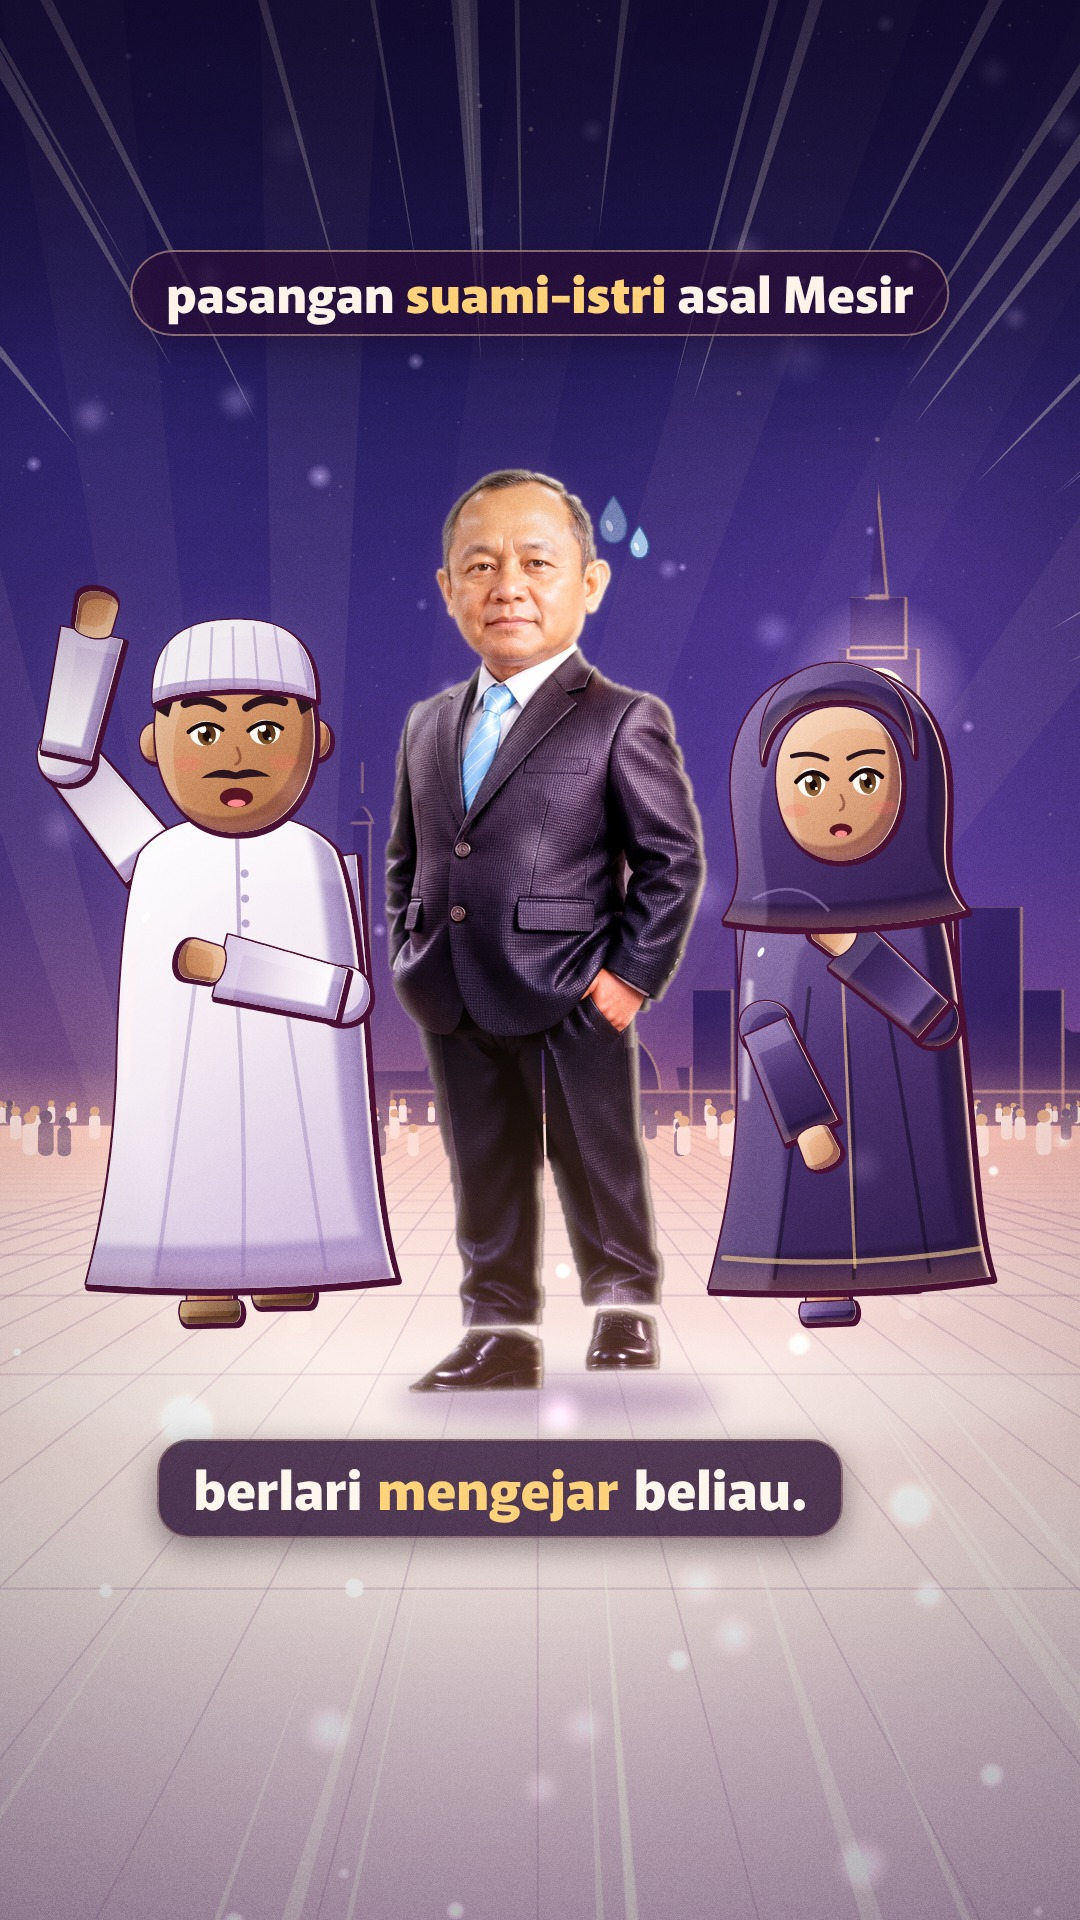
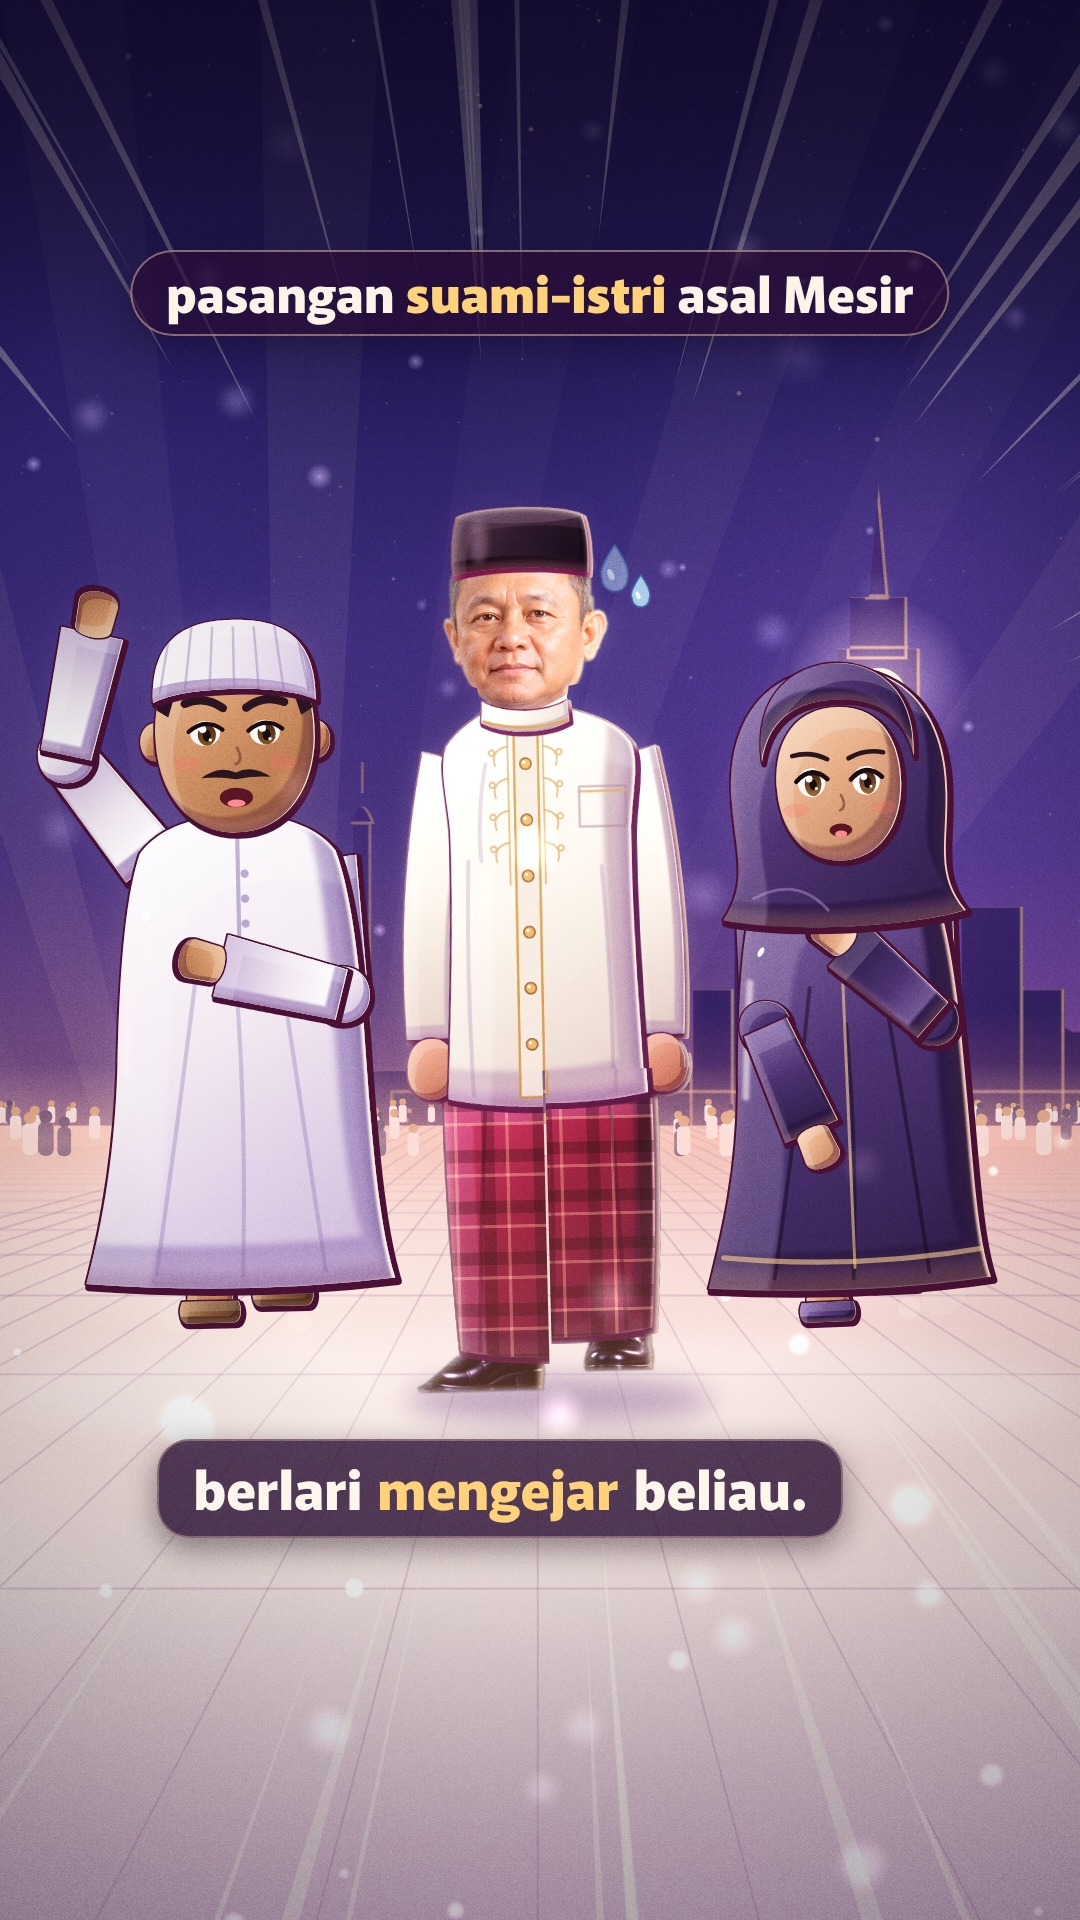
Ganti busana Pak Sarmuji: baju koko, peci, sarung (wajah tetap dari foto)
Claude-Session: https://claude.ai/code/session_01CdVjsPHWsCiLWjCVWZPL9t

Changed region(s): [[0.3361, 0.2188, 0.6722, 0.7188], [0.3667, 0.7188, 0.3972, 0.75]]

diff --git a/menperin-jamu/index.html b/menperin-jamu/index.html
@@ -72,7 +72,7 @@ html,body{margin:0;height:100%;background:#000;overflow:hidden}
 <div id="stage">
 <canvas id="cv" width="1080" height="1920"></canvas>
 <div id="ttl"><div id="tW">KISAH MENPERIN</div><div id="tLine"></div><div id="tC">dikejar <b>orang Mesir</b>!</div></div>
-<div class="lab" id="lb0" style="--c:#ffd27a">Menperin M. Sarmuji</div>
+<div class="lab" id="lb0" style="--c:#ffd27a">M. Sarmuji</div>
 <div id="c2">pasangan <b>suami-istri</b> asal Mesir</div>
 <svg id="mfLab" viewBox="0 0 1080 1920"></svg>
 <div id="mfSub"></div>
@@ -275,7 +275,7 @@ function debu(t,C,depan){X.save();X.globalCompositeOperation='lighter';if(depan)
 const IMG={};
 const muatGambar=(k,src)=>new Promise(r=>{const i=new Image();i.onload=()=>{IMG[k]=i;r();};i.onerror=r;i.src=src;});
 let FIG=null,FW=0,FH=0;
-const FIGH=900,FIGB=1400;                    /* tinggi figur di dunia + garis telapak kaki */
+const PADP=70,FIGH=958,FIGB=1400;   /* PADP: ruang di atas kepala untuk peci */                    /* tinggi figur di dunia + garis telapak kaki */
 function siapkanFigur(){const im=IMG.fig;FW=im.width;FH=im.height;const c=cx2(FW,FH),s=cx2(FW,FH),k=FW*.05;
   c.filter='saturate(1.12) contrast(1.06)';c.drawImage(im,0,0);c.filter='none';
   const tint=(fn,comp,al)=>{s.setTransform(1,0,0,1,0,0);s.globalCompositeOperation='source-over';s.globalAlpha=1;s.filter='none';s.clearRect(0,0,FW,FH);s.drawImage(im,0,0);
@@ -293,10 +293,56 @@ function siapkanFigur(){const im=IMG.fig;FW=im.width;FH=im.height;const c=cx2(FW
    s.globalCompositeOperation='destination-out';s.filter='blur(6px)';s.drawImage(im,k*.35,k*.1);s.filter='none';
    c.save();c.globalCompositeOperation='screen';c.globalAlpha=.35;c.drawImage(s.canvas,0,0);c.restore();}
   FIG=c.canvas;}
+/* ---- busana muslim: badan dilukis ulang dengan kuas anime; KEPALA & WAJAH tetap dari foto asli (tidak diubah) ----
+   baju koko putih gading + bordir emas, peci hitam beludru, sarung marun kotak-kotak. Koordinat = piksel foto. */
+const KOKO={lit:'#ffffff',base:'#f7f1e6',dark:'#dccdb8',sh1:'#bba8a6',sh2:'#7c6a88',rim:'#ffe4c4',bounce:'#ff9878',hi:'#ffffff'};
+const SARUNG={lit:'#c94a62',base:'#8e2438',dark:'#5e1630',sh1:'#4a1028',sh2:'#260818',rim:'#ffc9b0',bounce:'#ff9878',hi:'#ffd0d8'};
+const PECI={lit:'#2c2434',base:'#1a1520',dark:'#0e0b12',sh1:'#0a080e',sh2:'#050408',rim:'#c8a0a0',bounce:'#6a3a4a',hi:'#3a3048'};
+const KULIT_S={lit:'#f4c6a2',base:'#d99f78',dark:'#b07450',sh1:'#8e5440',sh2:'#5a3030',rim:'#ffe4c4',bounce:'#ff9878',hi:'#fff2e6'};
+function buatFigurMuslim(){const im=IMG.foto,w=im.width,h=im.height+PADP,OX=200,OY=200;clr(HC);SS=1;
+  const B=new DOMMatrix().translate(OX,OY+PADP);
+  /* sepatu dari foto */
+  HC.setTransform(B);HC.drawImage(im,0,1000,w,im.height-1000,0,1000,w,im.height-1000);ID(HC);
+  /* sarung kotak-kotak */
+  T=B;organ(P2('M 58 700 L 314 700 C 318 810 314 930 308 1030 C 250 1044 124 1044 72 1030 C 64 930 58 810 58 700 Z'),SARUNG,{k:40,g:[60,700,310,1040],tex:.14,isi:c=>{c.save();
+    c.globalCompositeOperation='multiply';c.fillStyle='rgba(60,10,40,.35)';for(let x=40;x<330;x+=64){c.fillRect(x,690,16,360);}for(let y=716;y<1050;y+=64){c.fillRect(40,y,300,16);}
+    c.globalCompositeOperation='screen';c.fillStyle='rgba(255,200,120,.45)';for(let x=70;x<330;x+=64)c.fillRect(x,690,4,360);for(let y=746;y<1050;y+=64)c.fillRect(40,y,300,4);
+    c.globalCompositeOperation='source-over';c.strokeStyle='rgba(30,4,20,.35)';c.lineWidth=5;c.lineCap='round';
+    [[110,720,100,880,96,1030],[186,720,190,880,184,1036],[262,720,270,880,276,1030]].forEach(q=>{c.beginPath();c.moveTo(q[0],q[1]);c.quadraticCurveTo(q[2],q[3],q[4],q[5]);c.stroke();});
+    c.restore();}});
+  /* lengan baju (menjuntai di sisi badan) + tangan */
+  const LKI=pipa([78,292,52,400,40,520,44,640],74,60),LKA=pipa([296,290,322,400,334,520,330,640],74,60);
+  T=B;organ(LKI,KOKO,{k:20,lw:2.6,g:[30,300,90,640]});organ(LKA,KOKO,{k:20,lw:2.6,g:[290,300,360,640]});
+  [[44,674],[330,674]].forEach(([x,y])=>{T=B.translate(x,y);organ(P2('M 0 -34 C 24 -34 32 -10 30 10 C 28 32 14 42 0 42 C -16 42 -30 30 -30 8 C -30 -14 -22 -34 0 -34 Z'),KULIT_S,{k:10,lw:2.4,g:[-30,-34,30,42]});});
+  /* badan baju koko */
+  T=B;organ(P2('M 128 230 C 106 244 86 256 72 276 C 62 300 70 330 74 380 C 76 480 70 600 64 716 C 130 732 244 732 310 716 C 304 600 298 480 300 380 C 304 330 312 300 302 276 C 288 256 268 244 214 230 Z'),KOKO,{k:56,g:[50,240,330,720],tex:.12,isi:c=>{c.save();c.lineCap='round';
+    /* lipatan kain */
+    c.strokeStyle='rgba(140,110,140,.28)';c.lineWidth=5;[[96,420,90,560,96,712],[262,430,272,580,270,712],[120,300,108,360,112,420]].forEach(q=>{c.beginPath();c.moveTo(q[0],q[1]);c.quadraticCurveTo(q[2],q[3],q[4],q[5]);c.stroke();});
+    /* plaket + kancing emas */
+    c.fillStyle='rgba(240,230,214,.9)';c.beginPath();c.moveTo(156,250);c.lineTo(186,250);c.lineTo(184,716);c.lineTo(154,716);c.closePath();c.fill();
+    c.strokeStyle='#c9993f';c.lineWidth=3;c.stroke();
+    for(let y=300;y<700;y+=70){c.fillStyle='#e3b65a';c.beginPath();c.arc(170,y,7,0,TAU);c.fill();c.strokeStyle='#8a6024';c.lineWidth=2;c.stroke();c.fillStyle='rgba(255,255,255,.8)';c.beginPath();c.arc(168,y-2,2.2,0,TAU);c.fill();}
+    /* bordir emas: sulur di dada kiri-kanan plaket */
+    c.strokeStyle='rgba(206,160,72,.75)';c.lineWidth=2.4;
+    for(const sx of [-1,1]){const x0=170+sx*22;for(let k=0;k<4;k++){const y=278+k*40;c.beginPath();c.moveTo(x0,y);c.quadraticCurveTo(x0+sx*22,y+4,x0+sx*16,y+24);c.stroke();
+      c.beginPath();c.arc(x0+sx*20,y+8,3.5,0,TAU);c.stroke();}
+      c.beginPath();c.moveTo(x0,264);c.lineTo(x0,450);c.stroke();}
+    /* saku dada */
+    c.strokeStyle='rgba(150,120,130,.55)';c.lineWidth=3;c.strokeRect(236,330,58,50);c.strokeStyle='rgba(206,160,72,.8)';c.beginPath();c.moveTo(236,336);c.lineTo(294,336);c.stroke();
+    kilau(c,[[80,300,7,3.5,-1]],[[70,330,62,400,60,460,9]]);c.restore();}});
+  /* kepala & wajah: dari foto asli, tidak diubah */
+  HC.save();HC.setTransform(B);HC.beginPath();HC.moveTo(30,-10);HC.lineTo(320,-10);HC.lineTo(320,186);HC.lineTo(226,204);HC.lineTo(220,240);HC.lineTo(118,240);HC.lineTo(112,204);HC.lineTo(30,186);HC.closePath();HC.clip();HC.drawImage(im,0,0);HC.restore();ID(HC);
+  /* kerah berdiri (shanghai) menutupi pangkal leher */
+  T=B;organ(P2('M 118 222 C 146 238 196 238 224 222 L 226 248 C 198 264 144 264 116 248 Z'),KOKO,{k:10,lw:2.2,g:[118,222,226,262],isi:c=>{c.strokeStyle='#c9993f';c.lineWidth=3;c.beginPath();c.moveTo(118,246);c.quadraticCurveTo(170,264,224,246);c.stroke();}});
+  /* peci hitam beludru */
+  T=B;organ(P2('M 86 64 C 84 40 86 10 92 -8 C 122 -22 218 -22 248 -8 C 254 10 256 40 254 64 C 210 52 130 52 86 64 Z'),PECI,{k:18,lw:2.4,g:[86,-22,254,64],tex:.08,isi:c=>{
+    c.fillStyle='rgba(90,76,110,.4)';c.beginPath();c.ellipse(170,-10,78,10,0,0,TAU);c.fill();
+    c.save();c.filter='blur(4px)';c.fillStyle='rgba(150,130,170,.35)';c.beginPath();c.ellipse(118,20,10,28,0,0,TAU);c.fill();c.restore();}});
+  const cv=kanvas(w,h);cv.getContext('2d').drawImage(HC.canvas,OX,OY,w,h,0,0,w,h);IMG.fig=cv;clr(HC);}
 /* posisi dunia: figur berdiri di tengah, kaki alas di y=FIGB */
 const fsk=()=>FIGH/FH, fx0=()=>540-FW*fsk()/2, fy0=()=>FIGB-FIGH;
 /* titik penting dalam koordinat gambar (px gambar asli) */
-const WAJAH=[165,140],MULUT=[162,188],PINGGUL=665,CELAH=182;   /* PINGGUL/CELAH: garis potong kaki untuk animasi jalan */
+const WAJAH=[165,140+PADP],MULUT=[162,188+PADP],PINGGUL=735,CELAH=182;   /* PINGGUL/CELAH: garis potong kaki untuk animasi jalan */
 const kePeta=p=>[fx0()+p[0]*fsk(),fy0()+p[1]*fsk()];
 
 /* ================= 5. ILUSTRASI NASKAH =================
@@ -376,7 +422,7 @@ function kamera(t){let i=0;while(i<KAM.length-2&&t>KAM[i+1][0])i++;const a=KAM[i
 const bicaraAmp=t=>{const K=SCENE.kata||window.KATA||[];for(const w of K)if(t>=w.t0-.05&&t<=w.t1+.05)return 1;return 0;};
 
 /* ================= 7. LABEL nama (pil + garis ke dada) ================= */
-const LAB=[{el:$('#lb0'),p:[106,600],kiri:true,y:1120,a:WAKTU.label}];
+const LAB=[{el:$('#lb0'),p:[110,470],kiri:true,y:1000,a:WAKTU.label}];
 function pasangLabel(t,M){LAB.forEach(L=>{const k=E.out(seg(t,L.a,L.a+.5));const pw=kePeta(L.p),q=M.transformPoint(new DOMPoint(...pw));const el=L.el,w=el.offsetWidth,h=el.offsetHeight;
   const ly=L.y,lx=L.kiri?AMAN.kiri:AMAN.kanan-w;el.style.opacity=E.out(seg(t,L.a+.2,L.a+.55));
   el.style.transform=`translate(${lx}px,${ly-h/2+(1-k)*14}px)`;if(k<=0)return;const ex=L.kiri?lx+w*.5:lx,ey=ly-h/2;
@@ -400,7 +446,7 @@ function frame1(t){const C=kamera(t);$('#ttl').style.opacity=1;$('#c2').style.op
   clr(BL);BL.filter='brightness(.9) contrast(3)';BL.drawImage(HC.canvas,0,0,270,480);BL.filter='none';
   X.save();X.globalCompositeOperation='screen';X.filter='blur(10px)';X.globalAlpha=.22;X.drawImage(BL.canvas,0,0,W,H);X.restore();
   /* bintang kilau di tepi rim (sepatu, kerah, plat nama) */
-  [[230,1050,0],[70,110,.4],[350,560,.7],[40,300,.2]].forEach(([x,y,o])=>{const p=M.transformPoint(new DOMPoint(...kePeta([x,y]))),ph=(t*.8+o)%1;bintang(X,p.x,p.y,7*Math.sqrt(C.s),Math.sin(Math.PI*ph)**3*.9);});
+  [[230,1120,0],[120,30,.4],[350,560,.7],[172,500,.2]].forEach(([x,y,o])=>{const p=M.transformPoint(new DOMPoint(...kePeta([x,y]))),ph=(t*.8+o)%1;bintang(X,p.x,p.y,7*Math.sqrt(C.s),Math.sin(Math.PI*ph)**3*.9);});
   bicara(t,C,bicaraAmp(t)*sstep(.2,.6,t));
   awan(t,C,2);debu(t,C,true);pasangLabel(t,M);
   balon(t,C,E.out(seg(t,WAKTU.balon,WAKTU.balon+.6)));
@@ -596,7 +642,7 @@ const SCENE={
         {w:'obat',t0:16.1,t1:16.4},{w:'masuk',t0:16.4,t1:16.8},{w:'angin!',t0:16.8,t1:17.5}],
   sub:{gaya:'pil',maks:3,y:.775,font:"800 54px Murecho",warna:'#FFF6EE',aksen:'#FFD27A',kunci:['dikejar-kejar','Mesir','Tanah','Suci','jamu','suami-istri','mengejar','obat','masuk','angin']},
   audio:{vo:[],sfx:[],music:null},
-  muat:()=>Promise.all([muatGambar('fig','assets/gambar/sarmuji.png')]),
+  muat:()=>Promise.all([muatGambar('foto','assets/gambar/sarmuji.png'),document.fonts.ready]).then(buatFigurMuslim),
   build(tl){grainOn(.08,'overlay');const e=$('#tW');e.innerHTML=[...e.textContent].map(ch=>ch===' '?'<span>&nbsp;</span>':`<span>${ch}</span>`).join('');},
   frame
 };

diff --git a/menperin-jamu/scene.html b/menperin-jamu/scene.html
@@ -49,7 +49,7 @@
 <!--@BODY-->
 <canvas id="cv" width="1080" height="1920"></canvas>
 <div id="ttl"><div id="tW">KISAH MENPERIN</div><div id="tLine"></div><div id="tC">dikejar <b>orang Mesir</b>!</div></div>
-<div class="lab" id="lb0" style="--c:#ffd27a">Menperin M. Sarmuji</div>
+<div class="lab" id="lb0" style="--c:#ffd27a">M. Sarmuji</div>
 <div id="c2">pasangan <b>suami-istri</b> asal Mesir</div>
 <!--@SCRIPT-->
 /* ================= 1. PALET =================
@@ -158,7 +158,7 @@ function debu(t,C,depan){X.save();X.globalCompositeOperation='lighter';if(depan)
 const IMG={};
 const muatGambar=(k,src)=>new Promise(r=>{const i=new Image();i.onload=()=>{IMG[k]=i;r();};i.onerror=r;i.src=src;});
 let FIG=null,FW=0,FH=0;
-const FIGH=900,FIGB=1400;                    /* tinggi figur di dunia + garis telapak kaki */
+const PADP=70,FIGH=958,FIGB=1400;   /* PADP: ruang di atas kepala untuk peci */                    /* tinggi figur di dunia + garis telapak kaki */
 function siapkanFigur(){const im=IMG.fig;FW=im.width;FH=im.height;const c=cx2(FW,FH),s=cx2(FW,FH),k=FW*.05;
   c.filter='saturate(1.12) contrast(1.06)';c.drawImage(im,0,0);c.filter='none';
   const tint=(fn,comp,al)=>{s.setTransform(1,0,0,1,0,0);s.globalCompositeOperation='source-over';s.globalAlpha=1;s.filter='none';s.clearRect(0,0,FW,FH);s.drawImage(im,0,0);
@@ -176,10 +176,56 @@ function siapkanFigur(){const im=IMG.fig;FW=im.width;FH=im.height;const c=cx2(FW
    s.globalCompositeOperation='destination-out';s.filter='blur(6px)';s.drawImage(im,k*.35,k*.1);s.filter='none';
    c.save();c.globalCompositeOperation='screen';c.globalAlpha=.35;c.drawImage(s.canvas,0,0);c.restore();}
   FIG=c.canvas;}
+/* ---- busana muslim: badan dilukis ulang dengan kuas anime; KEPALA & WAJAH tetap dari foto asli (tidak diubah) ----
+   baju koko putih gading + bordir emas, peci hitam beludru, sarung marun kotak-kotak. Koordinat = piksel foto. */
+const KOKO={lit:'#ffffff',base:'#f7f1e6',dark:'#dccdb8',sh1:'#bba8a6',sh2:'#7c6a88',rim:'#ffe4c4',bounce:'#ff9878',hi:'#ffffff'};
+const SARUNG={lit:'#c94a62',base:'#8e2438',dark:'#5e1630',sh1:'#4a1028',sh2:'#260818',rim:'#ffc9b0',bounce:'#ff9878',hi:'#ffd0d8'};
+const PECI={lit:'#2c2434',base:'#1a1520',dark:'#0e0b12',sh1:'#0a080e',sh2:'#050408',rim:'#c8a0a0',bounce:'#6a3a4a',hi:'#3a3048'};
+const KULIT_S={lit:'#f4c6a2',base:'#d99f78',dark:'#b07450',sh1:'#8e5440',sh2:'#5a3030',rim:'#ffe4c4',bounce:'#ff9878',hi:'#fff2e6'};
+function buatFigurMuslim(){const im=IMG.foto,w=im.width,h=im.height+PADP,OX=200,OY=200;clr(HC);SS=1;
+  const B=new DOMMatrix().translate(OX,OY+PADP);
+  /* sepatu dari foto */
+  HC.setTransform(B);HC.drawImage(im,0,1000,w,im.height-1000,0,1000,w,im.height-1000);ID(HC);
+  /* sarung kotak-kotak */
+  T=B;organ(P2('M 58 700 L 314 700 C 318 810 314 930 308 1030 C 250 1044 124 1044 72 1030 C 64 930 58 810 58 700 Z'),SARUNG,{k:40,g:[60,700,310,1040],tex:.14,isi:c=>{c.save();
+    c.globalCompositeOperation='multiply';c.fillStyle='rgba(60,10,40,.35)';for(let x=40;x<330;x+=64){c.fillRect(x,690,16,360);}for(let y=716;y<1050;y+=64){c.fillRect(40,y,300,16);}
+    c.globalCompositeOperation='screen';c.fillStyle='rgba(255,200,120,.45)';for(let x=70;x<330;x+=64)c.fillRect(x,690,4,360);for(let y=746;y<1050;y+=64)c.fillRect(40,y,300,4);
+    c.globalCompositeOperation='source-over';c.strokeStyle='rgba(30,4,20,.35)';c.lineWidth=5;c.lineCap='round';
+    [[110,720,100,880,96,1030],[186,720,190,880,184,1036],[262,720,270,880,276,1030]].forEach(q=>{c.beginPath();c.moveTo(q[0],q[1]);c.quadraticCurveTo(q[2],q[3],q[4],q[5]);c.stroke();});
+    c.restore();}});
+  /* lengan baju (menjuntai di sisi badan) + tangan */
+  const LKI=pipa([78,292,52,400,40,520,44,640],74,60),LKA=pipa([296,290,322,400,334,520,330,640],74,60);
+  T=B;organ(LKI,KOKO,{k:20,lw:2.6,g:[30,300,90,640]});organ(LKA,KOKO,{k:20,lw:2.6,g:[290,300,360,640]});
+  [[44,674],[330,674]].forEach(([x,y])=>{T=B.translate(x,y);organ(P2('M 0 -34 C 24 -34 32 -10 30 10 C 28 32 14 42 0 42 C -16 42 -30 30 -30 8 C -30 -14 -22 -34 0 -34 Z'),KULIT_S,{k:10,lw:2.4,g:[-30,-34,30,42]});});
+  /* badan baju koko */
+  T=B;organ(P2('M 128 230 C 106 244 86 256 72 276 C 62 300 70 330 74 380 C 76 480 70 600 64 716 C 130 732 244 732 310 716 C 304 600 298 480 300 380 C 304 330 312 300 302 276 C 288 256 268 244 214 230 Z'),KOKO,{k:56,g:[50,240,330,720],tex:.12,isi:c=>{c.save();c.lineCap='round';
+    /* lipatan kain */
+    c.strokeStyle='rgba(140,110,140,.28)';c.lineWidth=5;[[96,420,90,560,96,712],[262,430,272,580,270,712],[120,300,108,360,112,420]].forEach(q=>{c.beginPath();c.moveTo(q[0],q[1]);c.quadraticCurveTo(q[2],q[3],q[4],q[5]);c.stroke();});
+    /* plaket + kancing emas */
+    c.fillStyle='rgba(240,230,214,.9)';c.beginPath();c.moveTo(156,250);c.lineTo(186,250);c.lineTo(184,716);c.lineTo(154,716);c.closePath();c.fill();
+    c.strokeStyle='#c9993f';c.lineWidth=3;c.stroke();
+    for(let y=300;y<700;y+=70){c.fillStyle='#e3b65a';c.beginPath();c.arc(170,y,7,0,TAU);c.fill();c.strokeStyle='#8a6024';c.lineWidth=2;c.stroke();c.fillStyle='rgba(255,255,255,.8)';c.beginPath();c.arc(168,y-2,2.2,0,TAU);c.fill();}
+    /* bordir emas: sulur di dada kiri-kanan plaket */
+    c.strokeStyle='rgba(206,160,72,.75)';c.lineWidth=2.4;
+    for(const sx of [-1,1]){const x0=170+sx*22;for(let k=0;k<4;k++){const y=278+k*40;c.beginPath();c.moveTo(x0,y);c.quadraticCurveTo(x0+sx*22,y+4,x0+sx*16,y+24);c.stroke();
+      c.beginPath();c.arc(x0+sx*20,y+8,3.5,0,TAU);c.stroke();}
+      c.beginPath();c.moveTo(x0,264);c.lineTo(x0,450);c.stroke();}
+    /* saku dada */
+    c.strokeStyle='rgba(150,120,130,.55)';c.lineWidth=3;c.strokeRect(236,330,58,50);c.strokeStyle='rgba(206,160,72,.8)';c.beginPath();c.moveTo(236,336);c.lineTo(294,336);c.stroke();
+    kilau(c,[[80,300,7,3.5,-1]],[[70,330,62,400,60,460,9]]);c.restore();}});
+  /* kepala & wajah: dari foto asli, tidak diubah */
+  HC.save();HC.setTransform(B);HC.beginPath();HC.moveTo(30,-10);HC.lineTo(320,-10);HC.lineTo(320,186);HC.lineTo(226,204);HC.lineTo(220,240);HC.lineTo(118,240);HC.lineTo(112,204);HC.lineTo(30,186);HC.closePath();HC.clip();HC.drawImage(im,0,0);HC.restore();ID(HC);
+  /* kerah berdiri (shanghai) menutupi pangkal leher */
+  T=B;organ(P2('M 118 222 C 146 238 196 238 224 222 L 226 248 C 198 264 144 264 116 248 Z'),KOKO,{k:10,lw:2.2,g:[118,222,226,262],isi:c=>{c.strokeStyle='#c9993f';c.lineWidth=3;c.beginPath();c.moveTo(118,246);c.quadraticCurveTo(170,264,224,246);c.stroke();}});
+  /* peci hitam beludru */
+  T=B;organ(P2('M 86 64 C 84 40 86 10 92 -8 C 122 -22 218 -22 248 -8 C 254 10 256 40 254 64 C 210 52 130 52 86 64 Z'),PECI,{k:18,lw:2.4,g:[86,-22,254,64],tex:.08,isi:c=>{
+    c.fillStyle='rgba(90,76,110,.4)';c.beginPath();c.ellipse(170,-10,78,10,0,0,TAU);c.fill();
+    c.save();c.filter='blur(4px)';c.fillStyle='rgba(150,130,170,.35)';c.beginPath();c.ellipse(118,20,10,28,0,0,TAU);c.fill();c.restore();}});
+  const cv=kanvas(w,h);cv.getContext('2d').drawImage(HC.canvas,OX,OY,w,h,0,0,w,h);IMG.fig=cv;clr(HC);}
 /* posisi dunia: figur berdiri di tengah, kaki alas di y=FIGB */
 const fsk=()=>FIGH/FH, fx0=()=>540-FW*fsk()/2, fy0=()=>FIGB-FIGH;
 /* titik penting dalam koordinat gambar (px gambar asli) */
-const WAJAH=[165,140],MULUT=[162,188],PINGGUL=665,CELAH=182;   /* PINGGUL/CELAH: garis potong kaki untuk animasi jalan */
+const WAJAH=[165,140+PADP],MULUT=[162,188+PADP],PINGGUL=735,CELAH=182;   /* PINGGUL/CELAH: garis potong kaki untuk animasi jalan */
 const kePeta=p=>[fx0()+p[0]*fsk(),fy0()+p[1]*fsk()];
 
 /* ================= 5. ILUSTRASI NASKAH =================
@@ -259,7 +305,7 @@ function kamera(t){let i=0;while(i<KAM.length-2&&t>KAM[i+1][0])i++;const a=KAM[i
 const bicaraAmp=t=>{const K=SCENE.kata||window.KATA||[];for(const w of K)if(t>=w.t0-.05&&t<=w.t1+.05)return 1;return 0;};
 
 /* ================= 7. LABEL nama (pil + garis ke dada) ================= */
-const LAB=[{el:$('#lb0'),p:[106,600],kiri:true,y:1120,a:WAKTU.label}];
+const LAB=[{el:$('#lb0'),p:[110,470],kiri:true,y:1000,a:WAKTU.label}];
 function pasangLabel(t,M){LAB.forEach(L=>{const k=E.out(seg(t,L.a,L.a+.5));const pw=kePeta(L.p),q=M.transformPoint(new DOMPoint(...pw));const el=L.el,w=el.offsetWidth,h=el.offsetHeight;
   const ly=L.y,lx=L.kiri?AMAN.kiri:AMAN.kanan-w;el.style.opacity=E.out(seg(t,L.a+.2,L.a+.55));
   el.style.transform=`translate(${lx}px,${ly-h/2+(1-k)*14}px)`;if(k<=0)return;const ex=L.kiri?lx+w*.5:lx,ey=ly-h/2;
@@ -283,7 +329,7 @@ function frame1(t){const C=kamera(t);$('#ttl').style.opacity=1;$('#c2').style.op
   clr(BL);BL.filter='brightness(.9) contrast(3)';BL.drawImage(HC.canvas,0,0,270,480);BL.filter='none';
   X.save();X.globalCompositeOperation='screen';X.filter='blur(10px)';X.globalAlpha=.22;X.drawImage(BL.canvas,0,0,W,H);X.restore();
   /* bintang kilau di tepi rim (sepatu, kerah, plat nama) */
-  [[230,1050,0],[70,110,.4],[350,560,.7],[40,300,.2]].forEach(([x,y,o])=>{const p=M.transformPoint(new DOMPoint(...kePeta([x,y]))),ph=(t*.8+o)%1;bintang(X,p.x,p.y,7*Math.sqrt(C.s),Math.sin(Math.PI*ph)**3*.9);});
+  [[230,1120,0],[120,30,.4],[350,560,.7],[172,500,.2]].forEach(([x,y,o])=>{const p=M.transformPoint(new DOMPoint(...kePeta([x,y]))),ph=(t*.8+o)%1;bintang(X,p.x,p.y,7*Math.sqrt(C.s),Math.sin(Math.PI*ph)**3*.9);});
   bicara(t,C,bicaraAmp(t)*sstep(.2,.6,t));
   awan(t,C,2);debu(t,C,true);pasangLabel(t,M);
   balon(t,C,E.out(seg(t,WAKTU.balon,WAKTU.balon+.6)));
@@ -479,7 +525,7 @@ const SCENE={
         {w:'obat',t0:16.1,t1:16.4},{w:'masuk',t0:16.4,t1:16.8},{w:'angin!',t0:16.8,t1:17.5}],
   sub:{gaya:'pil',maks:3,y:.775,font:"800 54px Murecho",warna:'#FFF6EE',aksen:'#FFD27A',kunci:['dikejar-kejar','Mesir','Tanah','Suci','jamu','suami-istri','mengejar','obat','masuk','angin']},
   audio:{vo:[],sfx:[],music:null},
-  muat:()=>Promise.all([muatGambar('fig','assets/gambar/sarmuji.png')]),
+  muat:()=>Promise.all([muatGambar('foto','assets/gambar/sarmuji.png'),document.fonts.ready]).then(buatFigurMuslim),
   build(tl){grainOn(.08,'overlay');const e=$('#tW');e.innerHTML=[...e.textContent].map(ch=>ch===' '?'<span>&nbsp;</span>':`<span>${ch}</span>`).join('');},
   frame
 };
